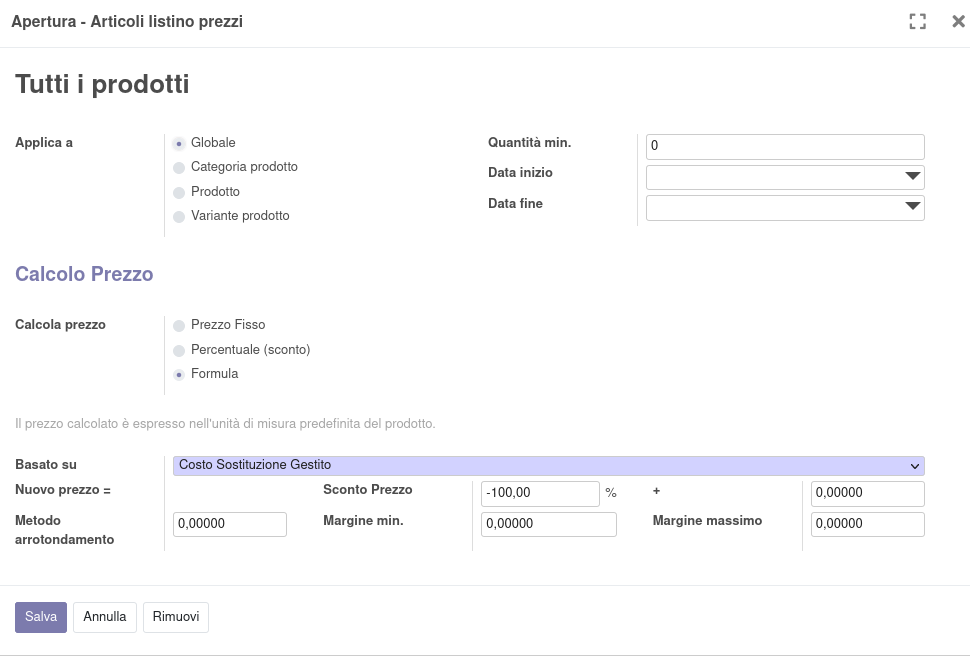
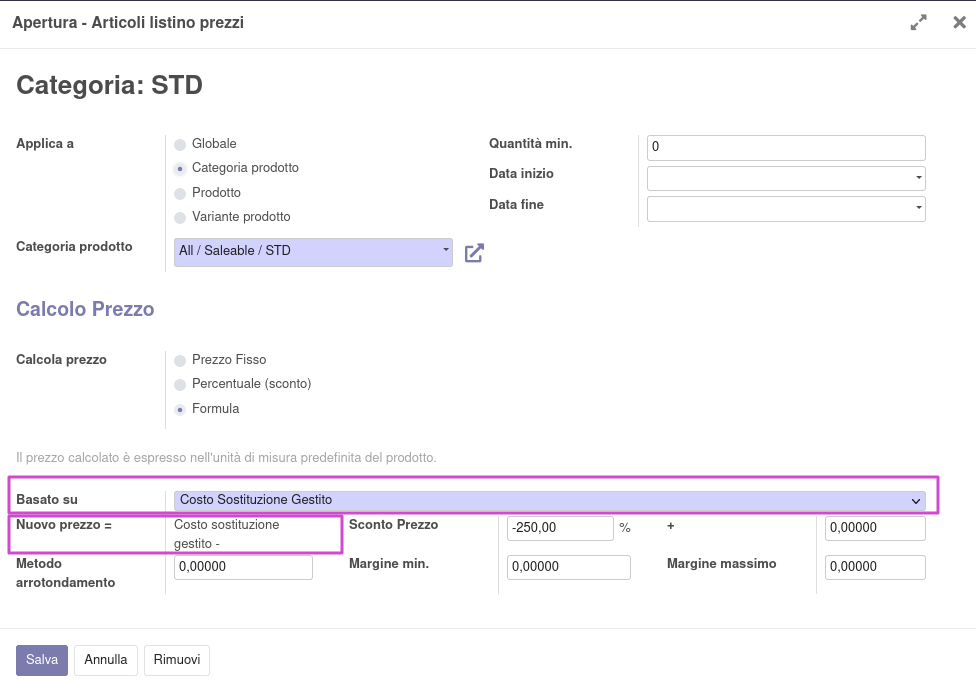
[FIX] view new item

diff --git a/product_pricelist_replenishment_cost/static/description/index.html b/product_pricelist_replenishment_cost/static/description/index.html
@@ -3,7 +3,7 @@
 <html xmlns="http://www.w3.org/1999/xhtml" xml:lang="en" lang="en">
 <head>
 <meta http-equiv="Content-Type" content="text/html; charset=utf-8" />
-<meta name="generator" content="Docutils 0.17.1: http://docutils.sourceforge.net/" />
+<meta name="generator" content="Docutils 0.18.1: http://docutils.sourceforge.net/" />
 <title>Product pricelist based on replenishment cost</title>
 <style type="text/css">
 
@@ -367,55 +367,55 @@ ul.auto-toc {
 !! This file is generated by oca-gen-addon-readme !!
 !! changes will be overwritten.                   !!
 !!!!!!!!!!!!!!!!!!!!!!!!!!!!!!!!!!!!!!!!!!!!!!!!!!!! -->
-<p><a class="reference external image-reference" href="https://odoo-community.org/page/development-status"><img alt="Beta" src="https://img.shields.io/badge/maturity-Beta-yellow.png" /></a> <a class="reference external image-reference" href="https://github.com/efatto/efatto/tree/12.0/product_pricelist_replenishment_cost"><img alt="efatto/efatto" src="https://img.shields.io/badge/github-efatto%2Fefatto-lightgray.png?logo=github" /></a></p>
+<p><a class="reference external image-reference" href="https://odoo-community.org/page/development-status"><img alt="Beta" src="https://img.shields.io/badge/maturity-Beta-yellow.png" /></a> <a class="reference external image-reference" href="https://github.com/sergiocorato/e-efatto/tree/12.0/product_pricelist_replenishment_cost"><img alt="sergiocorato/e-efatto" src="https://img.shields.io/badge/github-sergiocorato%2Fe--efatto-lightgray.png?logo=github" /></a></p>
 <p>Add ability to use managed replenishment cost for price list computation.</p>
 <p><strong>Table of contents</strong></p>
 <div class="contents local topic" id="contents">
 <ul class="simple">
-<li><a class="reference internal" href="#configuration" id="id1">Configuration</a></li>
-<li><a class="reference internal" href="#bug-tracker" id="id2">Bug Tracker</a></li>
-<li><a class="reference internal" href="#credits" id="id3">Credits</a><ul>
-<li><a class="reference internal" href="#authors" id="id4">Authors</a></li>
-<li><a class="reference internal" href="#contributors" id="id5">Contributors</a></li>
-<li><a class="reference internal" href="#maintainers" id="id6">Maintainers</a></li>
+<li><a class="reference internal" href="#configuration" id="toc-entry-1">Configuration</a></li>
+<li><a class="reference internal" href="#bug-tracker" id="toc-entry-2">Bug Tracker</a></li>
+<li><a class="reference internal" href="#credits" id="toc-entry-3">Credits</a><ul>
+<li><a class="reference internal" href="#authors" id="toc-entry-4">Authors</a></li>
+<li><a class="reference internal" href="#contributors" id="toc-entry-5">Contributors</a></li>
+<li><a class="reference internal" href="#maintainers" id="toc-entry-6">Maintainers</a></li>
 </ul>
 </li>
 </ul>
 </div>
 <div class="section" id="configuration">
-<h1><a class="toc-backref" href="#id1">Configuration</a></h1>
+<h1><a class="toc-backref" href="#toc-entry-1">Configuration</a></h1>
 <p>Nel listino prezzi impostare il tipo di costo su ‘Costo sostituzione gestito’:</p>
-<img alt="Listino" src="https://raw.githubusercontent.com/efatto/efatto/12.0/product_pricelist_replenishment_cost/static/description/listino.png" />
+<img alt="Listino" src="https://raw.githubusercontent.com/sergiocorato/e-efatto/12.0/product_pricelist_replenishment_cost/static/description/listino.png" />
 <p>Quindi a partire da un prodotto con questa situazione di costi:</p>
-<img alt="Costi" src="https://raw.githubusercontent.com/efatto/efatto/12.0/product_pricelist_replenishment_cost/static/description/costi.png" />
+<img alt="Costi" src="https://raw.githubusercontent.com/sergiocorato/e-efatto/12.0/product_pricelist_replenishment_cost/static/description/costi.png" />
 <p>Il prezzo di vendita e il margine saranno calcolati sul costo sostituzione gestito:</p>
-<img alt="Vendita" src="https://raw.githubusercontent.com/efatto/efatto/12.0/product_pricelist_replenishment_cost/static/description/vendita.png" />
+<img alt="Vendita" src="https://raw.githubusercontent.com/sergiocorato/e-efatto/12.0/product_pricelist_replenishment_cost/static/description/vendita.png" />
 </div>
 <div class="section" id="bug-tracker">
-<h1><a class="toc-backref" href="#id2">Bug Tracker</a></h1>
-<p>Bugs are tracked on <a class="reference external" href="https://github.com/efatto/efatto/issues">GitHub Issues</a>.
+<h1><a class="toc-backref" href="#toc-entry-2">Bug Tracker</a></h1>
+<p>Bugs are tracked on <a class="reference external" href="https://github.com/sergiocorato/e-efatto/issues">GitHub Issues</a>.
 In case of trouble, please check there if your issue has already been reported.
 If you spotted it first, help us smashing it by providing a detailed and welcomed
-<a class="reference external" href="https://github.com/efatto/efatto/issues/new?body=module:%20product_pricelist_replenishment_cost%0Aversion:%2012.0%0A%0A**Steps%20to%20reproduce**%0A-%20...%0A%0A**Current%20behavior**%0A%0A**Expected%20behavior**">feedback</a>.</p>
+<a class="reference external" href="https://github.com/sergiocorato/e-efatto/issues/new?body=module:%20product_pricelist_replenishment_cost%0Aversion:%2012.0%0A%0A**Steps%20to%20reproduce**%0A-%20...%0A%0A**Current%20behavior**%0A%0A**Expected%20behavior**">feedback</a>.</p>
 <p>Do not contact contributors directly about support or help with technical issues.</p>
 </div>
 <div class="section" id="credits">
-<h1><a class="toc-backref" href="#id3">Credits</a></h1>
+<h1><a class="toc-backref" href="#toc-entry-3">Credits</a></h1>
 <div class="section" id="authors">
-<h2><a class="toc-backref" href="#id4">Authors</a></h2>
+<h2><a class="toc-backref" href="#toc-entry-4">Authors</a></h2>
 <ul class="simple">
 <li>Sergio Corato</li>
 </ul>
 </div>
 <div class="section" id="contributors">
-<h2><a class="toc-backref" href="#id5">Contributors</a></h2>
+<h2><a class="toc-backref" href="#toc-entry-5">Contributors</a></h2>
 <ul class="simple">
 <li>Sergio Corato &lt;<a class="reference external" href="https://github.com/sergiocorato">https://github.com/sergiocorato</a>&gt;</li>
 </ul>
 </div>
 <div class="section" id="maintainers">
-<h2><a class="toc-backref" href="#id6">Maintainers</a></h2>
-<p>This module is part of the <a class="reference external" href="https://github.com/efatto/efatto/tree/12.0/product_pricelist_replenishment_cost">efatto/efatto</a> project on GitHub.</p>
+<h2><a class="toc-backref" href="#toc-entry-6">Maintainers</a></h2>
+<p>This module is part of the <a class="reference external" href="https://github.com/sergiocorato/e-efatto/tree/12.0/product_pricelist_replenishment_cost">sergiocorato/e-efatto</a> project on GitHub.</p>
 <p>You are welcome to contribute.</p>
 </div>
 </div>

diff --git a/product_pricelist_replenishment_cost/__manifest__.py b/product_pricelist_replenishment_cost/__manifest__.py
@@ -10,8 +10,9 @@
         'sale_margin',
     ],
     'data': [
+        'views/product_pricelist_views.xml',
     ],
     'summary': "This module add option 'based on managed replenishment cost' "
-                   "to product pricelist",
+               "to product pricelist",
     'installable': True,
 }

diff --git a/product_pricelist_replenishment_cost/README.rst b/product_pricelist_replenishment_cost/README.rst
@@ -10,9 +10,9 @@ Product pricelist based on replenishment cost
 .. |badge1| image:: https://img.shields.io/badge/maturity-Beta-yellow.png
     :target: https://odoo-community.org/page/development-status
     :alt: Beta
-.. |badge2| image:: https://img.shields.io/badge/github-efatto%2Fefatto-lightgray.png?logo=github
-    :target: https://github.com/efatto/efatto/tree/12.0/product_pricelist_replenishment_cost
-    :alt: efatto/efatto
+.. |badge2| image:: https://img.shields.io/badge/github-sergiocorato%2Fe--efatto-lightgray.png?logo=github
+    :target: https://github.com/sergiocorato/e-efatto/tree/12.0/product_pricelist_replenishment_cost
+    :alt: sergiocorato/e-efatto
 
 |badge1| |badge2| 
 
@@ -28,26 +28,26 @@ Configuration
 
 Nel listino prezzi impostare il tipo di costo su 'Costo sostituzione gestito':
 
-.. image:: https://raw.githubusercontent.com/efatto/efatto/12.0/product_pricelist_replenishment_cost/static/description/listino.png
+.. image:: https://raw.githubusercontent.com/sergiocorato/e-efatto/12.0/product_pricelist_replenishment_cost/static/description/listino.png
     :alt: Listino
 
 Quindi a partire da un prodotto con questa situazione di costi:
 
-.. image:: https://raw.githubusercontent.com/efatto/efatto/12.0/product_pricelist_replenishment_cost/static/description/costi.png
+.. image:: https://raw.githubusercontent.com/sergiocorato/e-efatto/12.0/product_pricelist_replenishment_cost/static/description/costi.png
     :alt: Costi
 
 Il prezzo di vendita e il margine saranno calcolati sul costo sostituzione gestito:
 
-.. image:: https://raw.githubusercontent.com/efatto/efatto/12.0/product_pricelist_replenishment_cost/static/description/vendita.png
+.. image:: https://raw.githubusercontent.com/sergiocorato/e-efatto/12.0/product_pricelist_replenishment_cost/static/description/vendita.png
     :alt: Vendita
 
 Bug Tracker
 ===========
 
-Bugs are tracked on `GitHub Issues <https://github.com/efatto/efatto/issues>`_.
+Bugs are tracked on `GitHub Issues <https://github.com/sergiocorato/e-efatto/issues>`_.
 In case of trouble, please check there if your issue has already been reported.
 If you spotted it first, help us smashing it by providing a detailed and welcomed
-`feedback <https://github.com/efatto/efatto/issues/new?body=module:%20product_pricelist_replenishment_cost%0Aversion:%2012.0%0A%0A**Steps%20to%20reproduce**%0A-%20...%0A%0A**Current%20behavior**%0A%0A**Expected%20behavior**>`_.
+`feedback <https://github.com/sergiocorato/e-efatto/issues/new?body=module:%20product_pricelist_replenishment_cost%0Aversion:%2012.0%0A%0A**Steps%20to%20reproduce**%0A-%20...%0A%0A**Current%20behavior**%0A%0A**Expected%20behavior**>`_.
 
 Do not contact contributors directly about support or help with technical issues.
 
@@ -67,6 +67,6 @@ Contributors
 Maintainers
 ~~~~~~~~~~~
 
-This module is part of the `efatto/efatto <https://github.com/efatto/efatto/tree/12.0/product_pricelist_replenishment_cost>`_ project on GitHub.
+This module is part of the `sergiocorato/e-efatto <https://github.com/sergiocorato/e-efatto/tree/12.0/product_pricelist_replenishment_cost>`_ project on GitHub.
 
 You are welcome to contribute.
